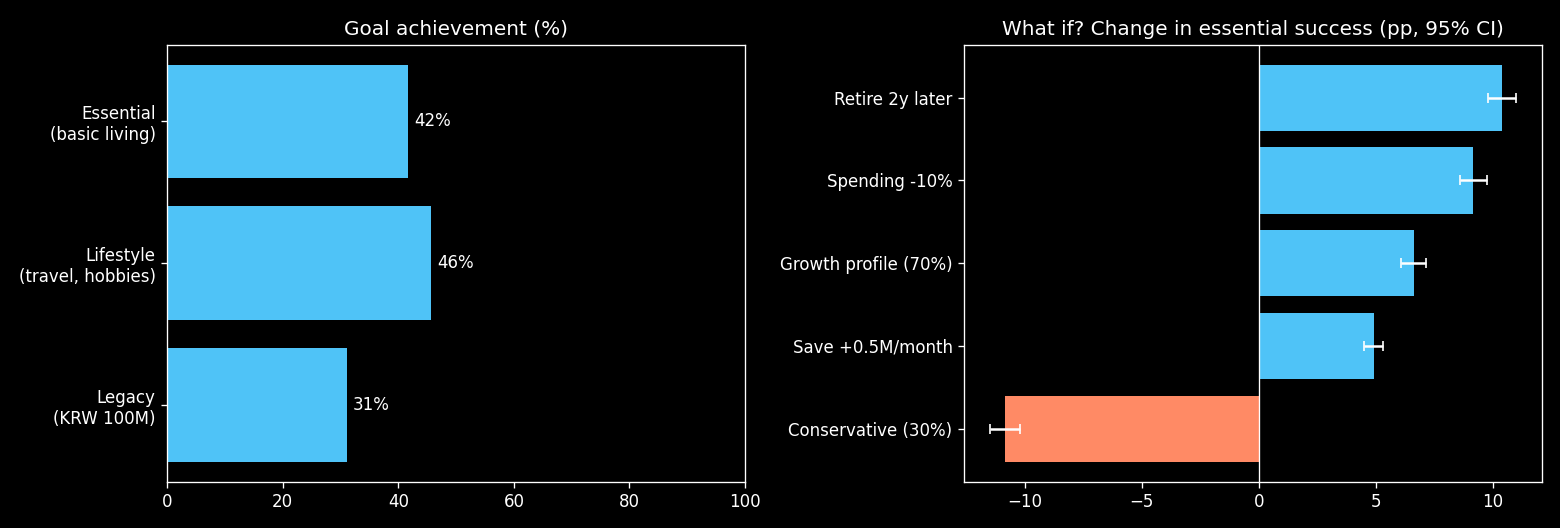
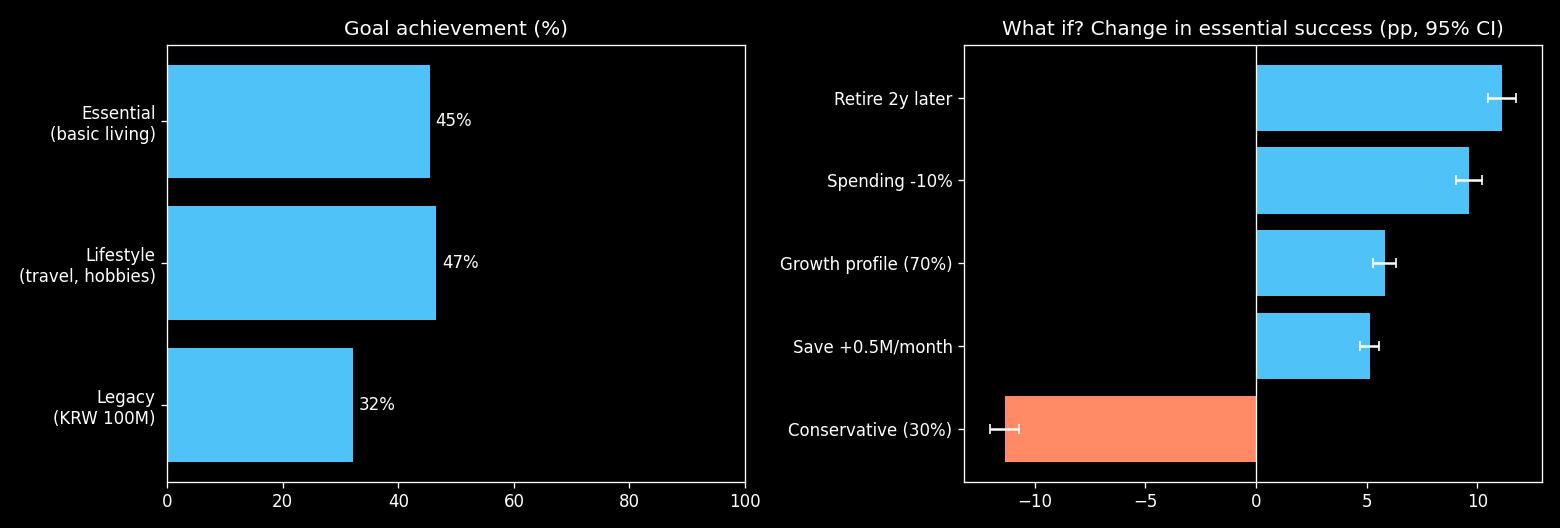
Add files via upload

diff --git a/streamlit_app.py b/streamlit_app.py
@@ -92,7 +92,7 @@ def build(p: dict, v: dict):
     biz += [None] * (k - 1)
     q = None
     if v.get("q_mult"):
-        q = {s: np.minimum(a * v["q_mult"], 1) for s, a in mortality.gompertz_qx().items()}
+        q = {s: np.minimum(a * v["q_mult"], 1) for s, a in mortality.default_qx().items()}
         for a in q.values(): a[-1] = 1
     return hh, cfg, eco, TaxConfig(**tkw), house, biz, q
 
@@ -409,12 +409,12 @@ with tab4:
 with tab5:
     st.markdown("""
 **계산 방식**
-- 금리·물가·주가가 서로 연결되어 움직이는 1만 가지 미래와, 생명표 기반 부부 각자의 수명·간병을 계산합니다.
+- 금리·물가·주가가 서로 연결되어 움직이는 1만 가지 미래와, 통계청 생명표 기반 부부 각자의 수명·간병을 계산합니다.
 - 목표는 **기본생활 → 여행·취미 → 남길 자산** 순으로 지킵니다. 매년 남은 금융자산이 "95세까지 기본생활비 부족분의 현재가치(실질 2% 할인)"보다 많을 때만 여행·취미 예산을 씁니다.
 - 국민연금, 사적연금 분리과세, 금융소득종합과세, 건강보험료, 재산세·종부세, 상속·증여세를 반영합니다.
 
 **알아두실 점**
-- 수익률·물가·사망률·간병 발생률은 **임시 가정값**입니다. 결과의 절대값보다 **선택지 사이의 차이**를 보세요.
+- 사망률은 통계청 2024 완전생명표를 씁니다(미래의 수명 연장은 아직 미반영). 수익률·물가·간병 발생률은 **임시 가정값**입니다. 결과의 절대값보다 **선택지 사이의 차이**를 보세요.
 - 세법은 2026년 9월 기준으로 단순화했습니다. **투자 추천이나 세무 자문이 아니며**, 실제 결정 전 전문가와 상의하세요.
 - 입력하신 정보는 계산에만 쓰이고 서버에 저장하지 않습니다.
 """)

diff --git a/retire_sim/mortality.py b/retire_sim/mortality.py
@@ -1,8 +1,10 @@
 """사망률 모듈.
 
-v1은 Gompertz 근사(임시값). 실제 사용 시 통계청(KOSIS) 완전생명표 CSV를
-load_life_table()로 불러와 교체한다. CSV 형식: age,qx_M,qx_F
+기본값(v13): 통계청 「생명표」 2024 완전생명표(1세별, KOSIS DT_1B42)의 성별 사망확률.
+100세 이상은 90~99세 사망력에 Gompertz(로그-선형)를 맞춰 109세까지 외삽하고 110세에서 종료.
+CSV 형식: age,qx_M,qx_F (retire_sim/data/life_table_2024.csv). gompertz_qx()는 이전 임시값(비교용).
 """
+import os
 import numpy as np
 import csv
 
@@ -19,6 +21,16 @@ def gompertz_qx(max_age: int = 110) -> dict:
         q[-1] = 1.0
         out[sex] = np.clip(q, 0, 1)
     return out
+
+
+_DEFAULT_TABLE = os.path.join(os.path.dirname(__file__), "data", "life_table_2024.csv")
+
+
+def default_qx(max_age: int = 110) -> dict:
+    """기본 사망률: 통계청 2024 완전생명표(0~99세) + 100~109세 Gompertz 외삽. 파일이 없으면 임시 Gompertz."""
+    if os.path.exists(_DEFAULT_TABLE):
+        return load_life_table(_DEFAULT_TABLE, max_age)
+    return gompertz_qx(max_age)
 
 
 def load_life_table(path: str, max_age: int = 110) -> dict:

diff --git a/scripts/validate_v11.py b/scripts/validate_v11.py
@@ -20,7 +20,7 @@ cA = M / np.sqrt(np.outer(np.diag(M), np.diag(M))); cE = emp / np.sqrt(np.outer(
 print(f"[①] 5×5 결합공분산: 해석해 vs 세밀 시뮬 상관 최대 차이 {np.abs(cA - cE).max():.4f}, "
       f"분산 상대오차 최대 {np.max(np.abs(np.diag(M) - np.diag(emp)) / np.diag(M)):.4f}")
 
-q = mortality.gompertz_qx(); n = 100000
+q = mortality.default_qx(); n = 100000
 a0 = mortality.simulate_alive(q["M"], 60, 50, n, np.random.default_rng(0))
 a1, ic = mortality.simulate_life(q["M"], 60, 50, n, np.random.default_rng(0), CareMarkov())
 print(f"[③] 60세 남 기대여명: 생명표 {a0.sum(1).mean() - .5:.2f}년 / 간병 마르코프 {a1.sum(1).mean() - .5:.2f}년")

diff --git a/scripts/sensitivity.py b/scripts/sensitivity.py
@@ -8,7 +8,7 @@ from retire_sim import engine, metrics, mortality
 def hh(spend=3600, w=0.4):
     return Household(members=[Person(60,"M",nps_monthly=110,private_pension_annual=600,private_pension_start=60),
                               Person(58,"F",nps_monthly=50)], liquid_assets=50_000, stock_weight=w, annual_spending=spend)
-q0 = mortality.gompertz_qx()
+q0 = mortality.default_qx()
 def run(h=None, e=None, cfg=None, q=None):
     r = engine.run(h or hh(), cfg or SimConfig(), qx_table=q or q0, economy_v2=e or EconomyV2())
     return metrics.summarize(r)["고갈확률(생존 중)"]*100

diff --git a/retire_sim/engine_tax.py b/retire_sim/engine_tax.py
@@ -18,7 +18,7 @@ def run(hh: Household, cfg: SimConfig, e: EconomyV2 = None, tc: TaxConfig = None
     e, tc, house = e or EconomyV2(), tc or TaxConfig(), house or HouseConfig()
     biz = biz or [None] * len(hh.members)
     rng = np.random.default_rng(cfg.seed)
-    qx_table = qx_table or mortality.gompertz_qx(cfg.max_age)
+    qx_table = qx_table or mortality.default_qx(cfg.max_age)
     k = len(hh.members); youngest = min(m.age for m in hh.members)
     T, n = cfg.max_age - youngest, cfg.n_paths
     eco = generate(e, T, n, rng); cpi = eco["cpi"]

diff --git a/retire_sim/engine.py b/retire_sim/engine.py
@@ -6,7 +6,7 @@ from . import economy, mortality, pension
 
 def run(hh: Household, cfg: SimConfig, qx_table: dict | None = None, economy_v2=None) -> dict:
     rng = np.random.default_rng(cfg.seed)
-    qx_table = qx_table or mortality.gompertz_qx(cfg.max_age)
+    qx_table = qx_table or mortality.default_qx(cfg.max_age)
     youngest = min(m.age for m in hh.members)
     T = cfg.max_age - youngest
     n = cfg.n_paths

diff --git a/scripts/run_example.py b/scripts/run_example.py
@@ -13,7 +13,7 @@ hh = Household(
     liquid_assets=50_000, stock_weight=0.4, annual_spending=3600)
 cfg = SimConfig()
 
-q = mortality.gompertz_qx()
+q = mortality.default_qx()
 print(f"[사망률 체크] 60세 남 기대여명 {mortality.life_expectancy(q['M'], 60):.1f}년, "
       f"58세 여 {mortality.life_expectancy(q['F'], 58):.1f}년")
 

diff --git a/README.en.md b/README.en.md
@@ -27,33 +27,33 @@ Most Korean retirement calculators fix returns and lifespan and ignore taxes and
 
 1. **Goal-based structure** — essential (protected), lifestyle (flexible) and legacy goals, with a guardrail that cuts flexible spending first in bad scenarios
 2. **Korean institutions** — National Pension early/deferred claiming, KRW 15M private-pension threshold, comprehensive financial-income taxation, health premiums (regional/workplace, dependents), property taxes, inheritance and gift taxes
-3. **Actuarial modeling** — joint-life survival from life tables, multi-state long-term-care Markov model (healthy ⇄ care → dead) calibrated to preserve life-table mortality
+3. **Actuarial modeling** — joint-life survival from the Statistics Korea 2024 complete life table, multi-state long-term-care Markov model (healthy ⇄ care → dead) calibrated to preserve life-table mortality
 4. **Stochastic economy** — OU real rate and inflation with a Fisher link, two-factor closed-form bond pricing, exact joint distribution of integrated rates, crash jumps, parameter uncertainty, fees
 5. **Statistically honest comparisons** — paired-difference confidence intervals on common random numbers decide "different / not different"
 
 ## Example (couple aged 52 and 50, retiring at 60, KRW 500M, saving KRW 1.5M/month · placeholder assumptions)
 
 - Essential KRW 3M/month + lifestyle KRW 12M/year − pensions KRW 1.6M/month → **income gap KRW 2.4M/month**
-- Goal success: essential **42%**, lifestyle funding **46%**, KRW 100M legacy **31%**
+- Goal success: essential **45%**, lifestyle funding **47%**, KRW 100M legacy **32%**
 
 | What if | Change in essential success (95% CI) |
 |---|---|
-| Retire 2 years later | **+10.4pp** (±0.6) |
-| Spend 10% less | +9.2pp (±0.6) |
-| Growth profile | +6.6pp (±0.5) |
-| Save KRW 0.5M more per month | +4.9pp (±0.4) |
-| Conservative profile | −10.8pp (±0.6) |
+| Retire 2 years later | **+11.1pp** (±0.6) |
+| Spend 10% less | +9.6pp (±0.6) |
+| Growth profile | +5.8pp (±0.5) |
+| Save KRW 0.5M more per month | +5.1pp (±0.4) |
+| Conservative profile | −11.4pp (±0.7) |
 
 | Crisis | Change in essential success |
 |---|---|
-| Equities −40% in the first year of retirement | −14.9pp |
-| Equities −40% ten years into retirement | −10.1pp |
-| Long-term care risk doubled | −8.2pp |
-| Longer life (mortality −20%) | −7.0pp |
-| Three years of 6% inflation | −6.7pp |
+| Equities −40% in the first year of retirement | −16.9pp |
+| Equities −40% ten years into retirement | −11.6pp |
+| Long-term care risk doubled | −8.8pp |
+| Three years of 6% inflation | −7.6pp |
+| Longer life (mortality −20%) | −6.5pp |
 
 - For this household **retirement timing is the strongest lever**, and the same crash hurts most right after retirement (sequence-of-returns risk).
-- Splitting spending into essential + flexible lowers the depletion probability versus fixed spending of the same total (65.6% → 54.2%).
+- Splitting spending into essential + flexible lowers the depletion probability versus fixed spending of the same total (62.4% → 50.9%).
 
 ![goals](docs/images/goals_whatif.png)
 ![tax strategies](docs/images/tax_strategies.png)
@@ -64,7 +64,8 @@ Most Korean retirement calculators fix returns and lifespan and ignore taxes and
 - Exact OU/Vasicek discretization matches theoretical moments (rate 2.99%/1.84% vs 3.00%/1.83%)
 - Bond prices: Vasicek closed form 0.87706 vs Monte Carlo 0.87723; two-factor 0.87553 vs 0.87518
 - Integrated-rate 5×5 joint covariance: max correlation error 0.005 vs fine-step simulation
-- Multi-state care model preserves life expectancy at 60 (23.5 → 23.6 years)
+- Mortality: Statistics Korea 2024 complete life table; model life expectancy matches published values (ages 0, 60, 65, 80, both sexes)
+- Multi-state care model preserves male life expectancy at 60 (table 23.7 → 23.9 years)
 - OU maximum likelihood recovers long-run mean and volatility on synthetic data (small-sample upward bias in mean-reversion speed confirmed)
 - Paired-difference CIs for comparisons (±1.38pp under independence → ±0.44pp)
 
@@ -105,7 +106,8 @@ python scripts/validate_v11.py      # validation
 | v11 refinements (paired CIs, integrated rates, multi-state care, term premium, OU MLE) | Done |
 | Web app (Streamlit) | Done |
 | v12 goal-based rebuild (three goals, income gap, accumulation phase, model portfolios, step-by-step input) | Done |
-| Statistics Korea life tables and ECOS data | Planned |
+| Statistics Korea 2024 complete life table (v13) | Done |
+| ECOS rate/inflation estimation, cohort mortality improvement | Planned |
 | Insurance module, home sale and reverse mortgage | Planned |
 | Account/budget-app import, periodic re-measurement | Planned |
 
@@ -113,7 +115,7 @@ See [CHANGELOG.md](CHANGELOG.md) and [docs/MODEL.en.md](docs/MODEL.en.md) for de
 
 ## Limitations
 
-- Return, inflation, mortality and care assumptions are **placeholders**. Focus on **differences between choices**.
+- Mortality uses the Statistics Korea 2024 period life table (no future improvement yet); return, inflation and care assumptions are **placeholders**. Focus on **differences between choices**.
 - Tax rules are simplified (Korea, as of 2026-09). **Not investment or tax advice.**
 - Web-app inputs are used only for calculation and are not stored.
 

diff --git a/CHANGELOG.md b/CHANGELOG.md
@@ -1,5 +1,16 @@
 # 변경 내역 (Changelog)
 
+## v13 — 통계청 2024 완전생명표 반영 (2026-09-29)
+
+| 무엇을 | 어떻게 | 전과 무엇이 달라졌나 |
+|---|---|---|
+| 사망률 | 임시 Gompertz 곡선 → 통계청 「생명표」 2024 완전생명표(1세별, KOSIS DT_1B42) 성별 사망확률. 100세 이상은 90~99세 사망력에 Gompertz를 맞춰 109세까지 외삽, 110세 종료 (`retire_sim/data/life_table_2024.csv`, `mortality.default_qx`) | 모델 기대여명이 공표치와 일치(0세 남 80.8·여 86.6, 60세 남 23.7·여 28.4, 65세 남 19.5·여 23.7, 80세 남 8.5·여 10.9년). 임시값은 60세 여성 기대여명을 약 1년 과대평가(29.5 → 28.4)하고 있었음 |
+| 결과 변화 | 52세 부부 예시: 기본생활 유지 41.7% → 45.4%, 여행·취미 45.7% → 46.5%, 유산 31.1% → 32.2% · 60·58세 부부 예시: 고갈확률 65.7% → 62.4% | 여성 수명 과대평가가 사라지면서 위험이 약간 낮아짐 |
+| 국민연금 비교 | 60·58세 예시 70세 vs 65세: +1.2%p → +1.4%p, 60세 vs 65세: +3.6%p → +4.7%p | 결론 방향은 동일(65세 개시가 가장 유리) |
+| 노트북 | 생명표 CSV를 노트북 안에 포함해 Colab에서도 같은 사망률 사용 | — |
+
+- 한계: 2024년 한 해의 사망률을 쓰는 기간생명표라 앞으로의 수명 연장(사망률 개선)은 반영되지 않았다. 코호트 개선율은 다음 단계.
+
 ## v12 — 목표 기반(Goal-Based) 재구축 (2026-09-29)
 
 외부 제안서("얼마를 투자할 것인가 → 어떤 은퇴 목표를 달성할 것인가")에서 참고할 점을 가져와 모델과 웹 앱을 다시 구성했다.

diff --git a/docs/MODEL.en.md b/docs/MODEL.en.md
@@ -63,8 +63,9 @@ $(\varepsilon^r,\varepsilon^\pi,\varepsilon^S)$ are standard normals with correl
 
 ## 4. Mortality
 
-- Current: Gompertz $\mu(x)=a e^{bx}$, calibrated to life expectancy at 60 of 23.5 years (male) and 29.5 years (female) (**placeholder**)
-- Planned: Statistics Korea complete life table $q_x$ (CSV loader already implemented)
+- **From v13:** Statistics Korea 2024 complete life table (single-year ages) by sex. Ages 100+ extrapolated to 109 by fitting a Gompertz line to $\ln\mu_x$ at ages 90–99, with $q_{110}=1$. Life expectancies match published values.
+- Before (v1–v12): placeholder Gompertz (life expectancy at 60: 23.5 male, 29.5 female)
+- Limitation: period table, no future mortality improvement
 - Each spouse is simulated independently. Last-survivor probability ${}_tp_{\overline{xy}}={}_tp_x+{}_tp_y-{}_tp_x\,{}_tp_y$
 
 ## 5. Institutional rules (as of 2026-09, kept in a separate configuration)
